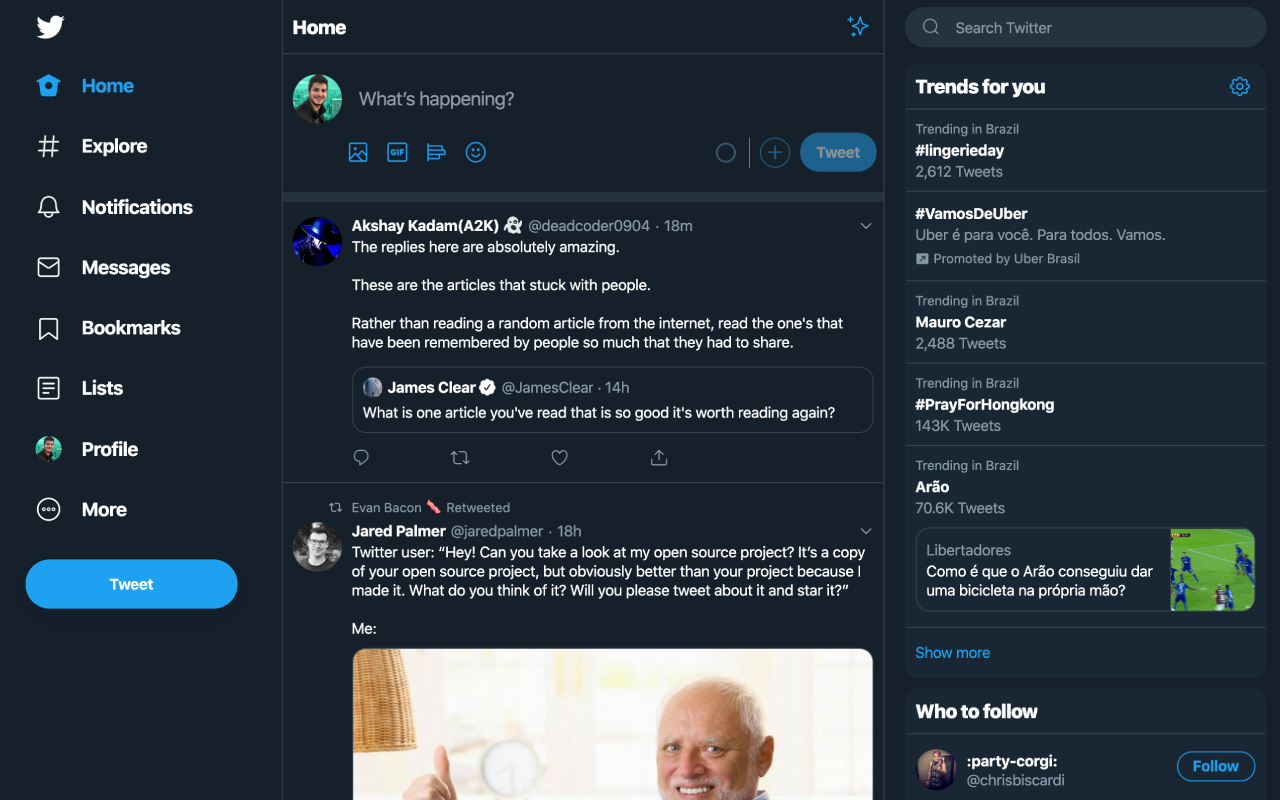
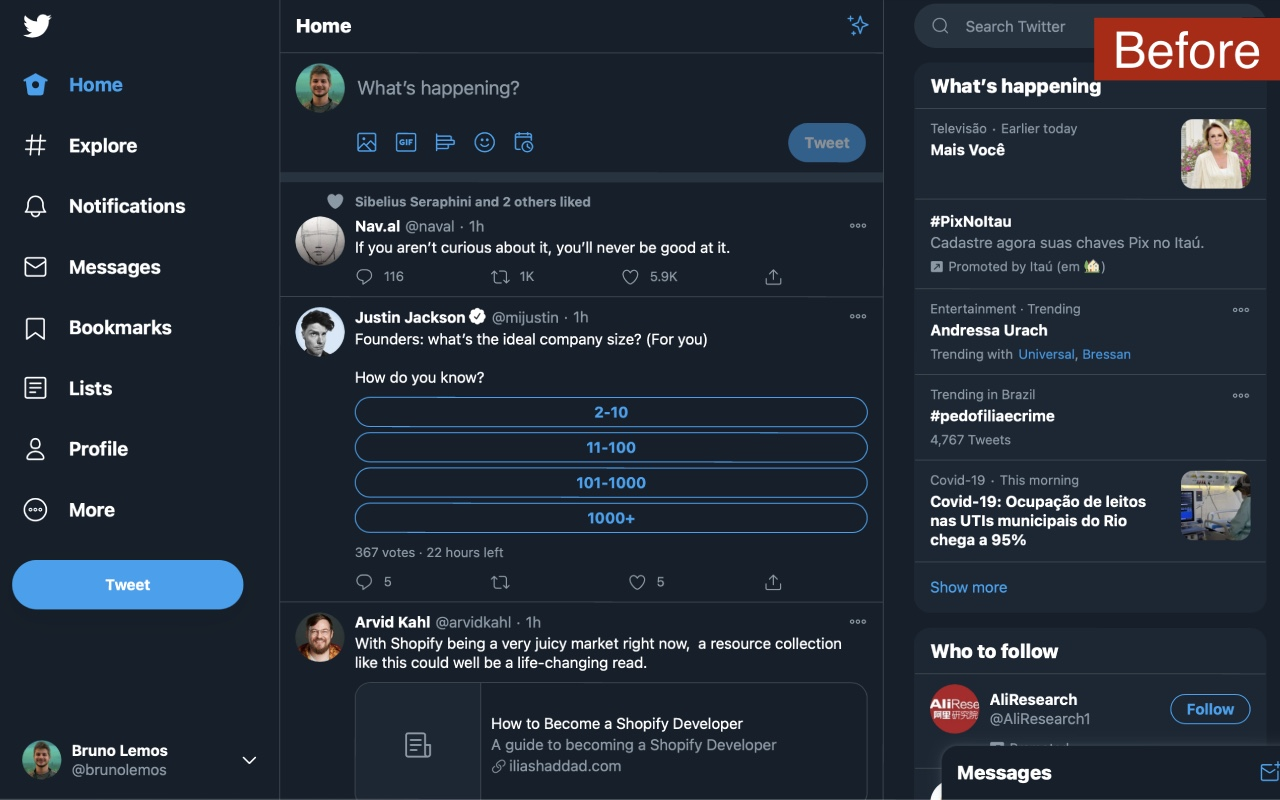
Update screenshots

diff --git a/README.md b/README.md
@@ -28,7 +28,7 @@ This extension tricks Twitter to think the window is smaller, and Twitter adjust
 
 #### Screenshot
 
-[![simplified-twitter-comparison-gif](./assets/simplified-twitter-safari.gif)](https://twitter.com/brunolemos/status/1154309740694003713?s=20)
+[![simplified-twitter-comparison-gif](./assets/screenshot.gif)](https://twitter.com/brunolemos/status/1154309740694003713?s=20)
 
 ### Author
 
